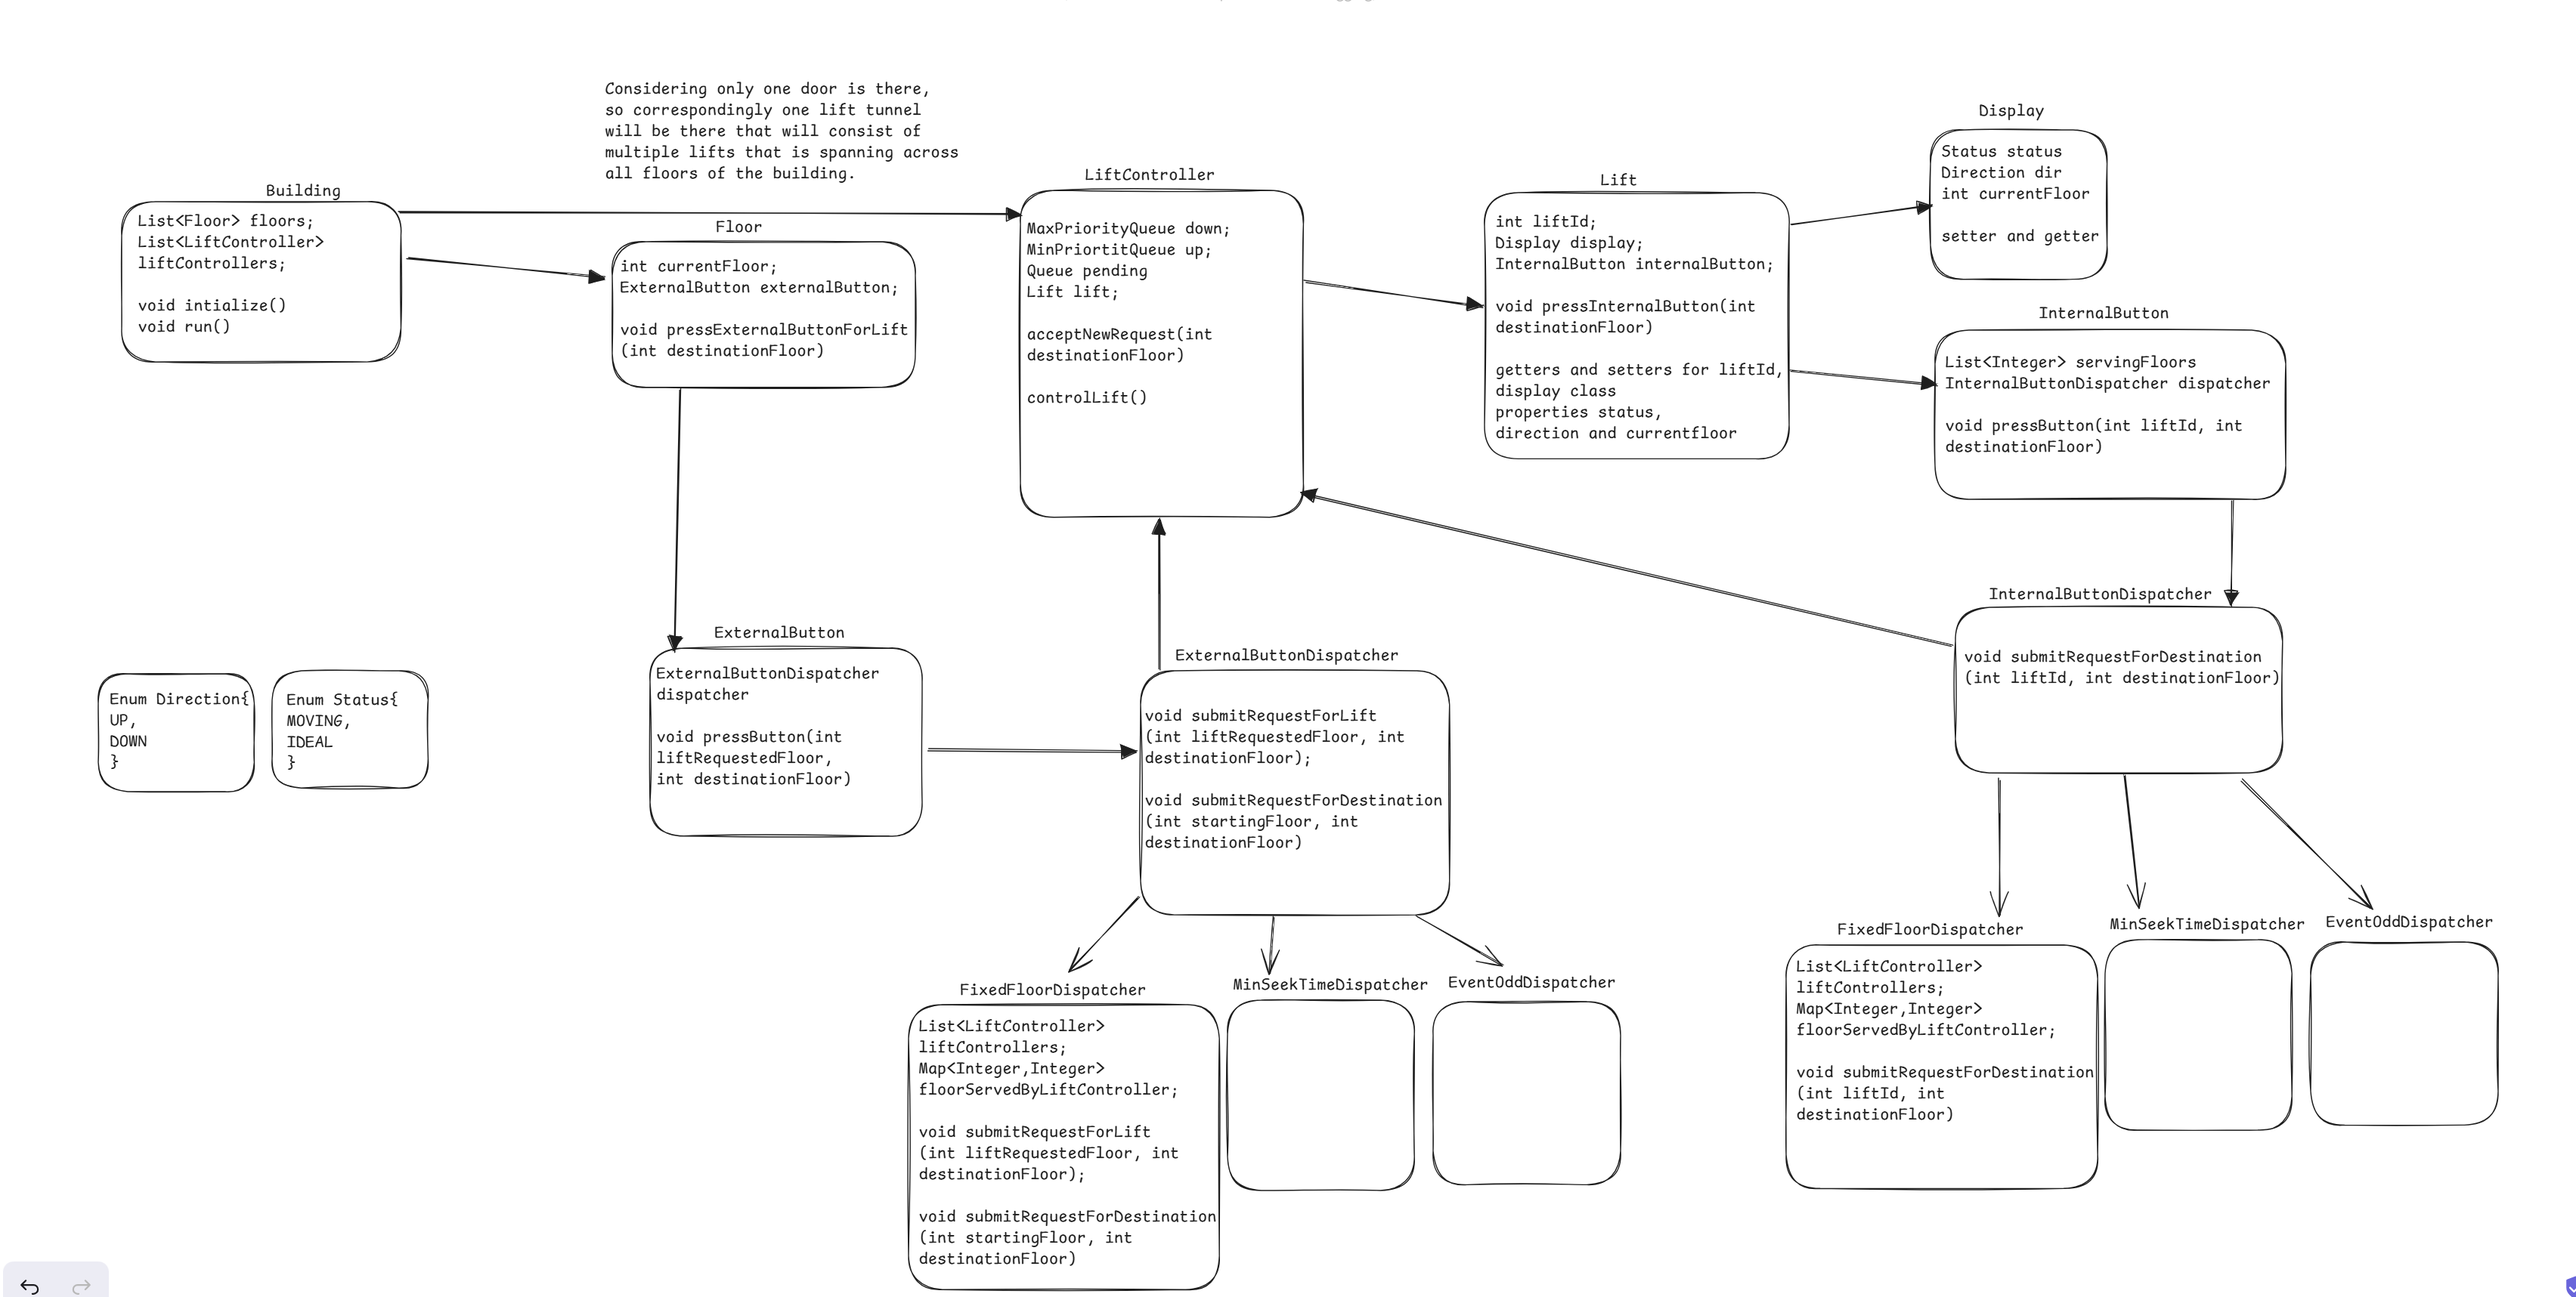
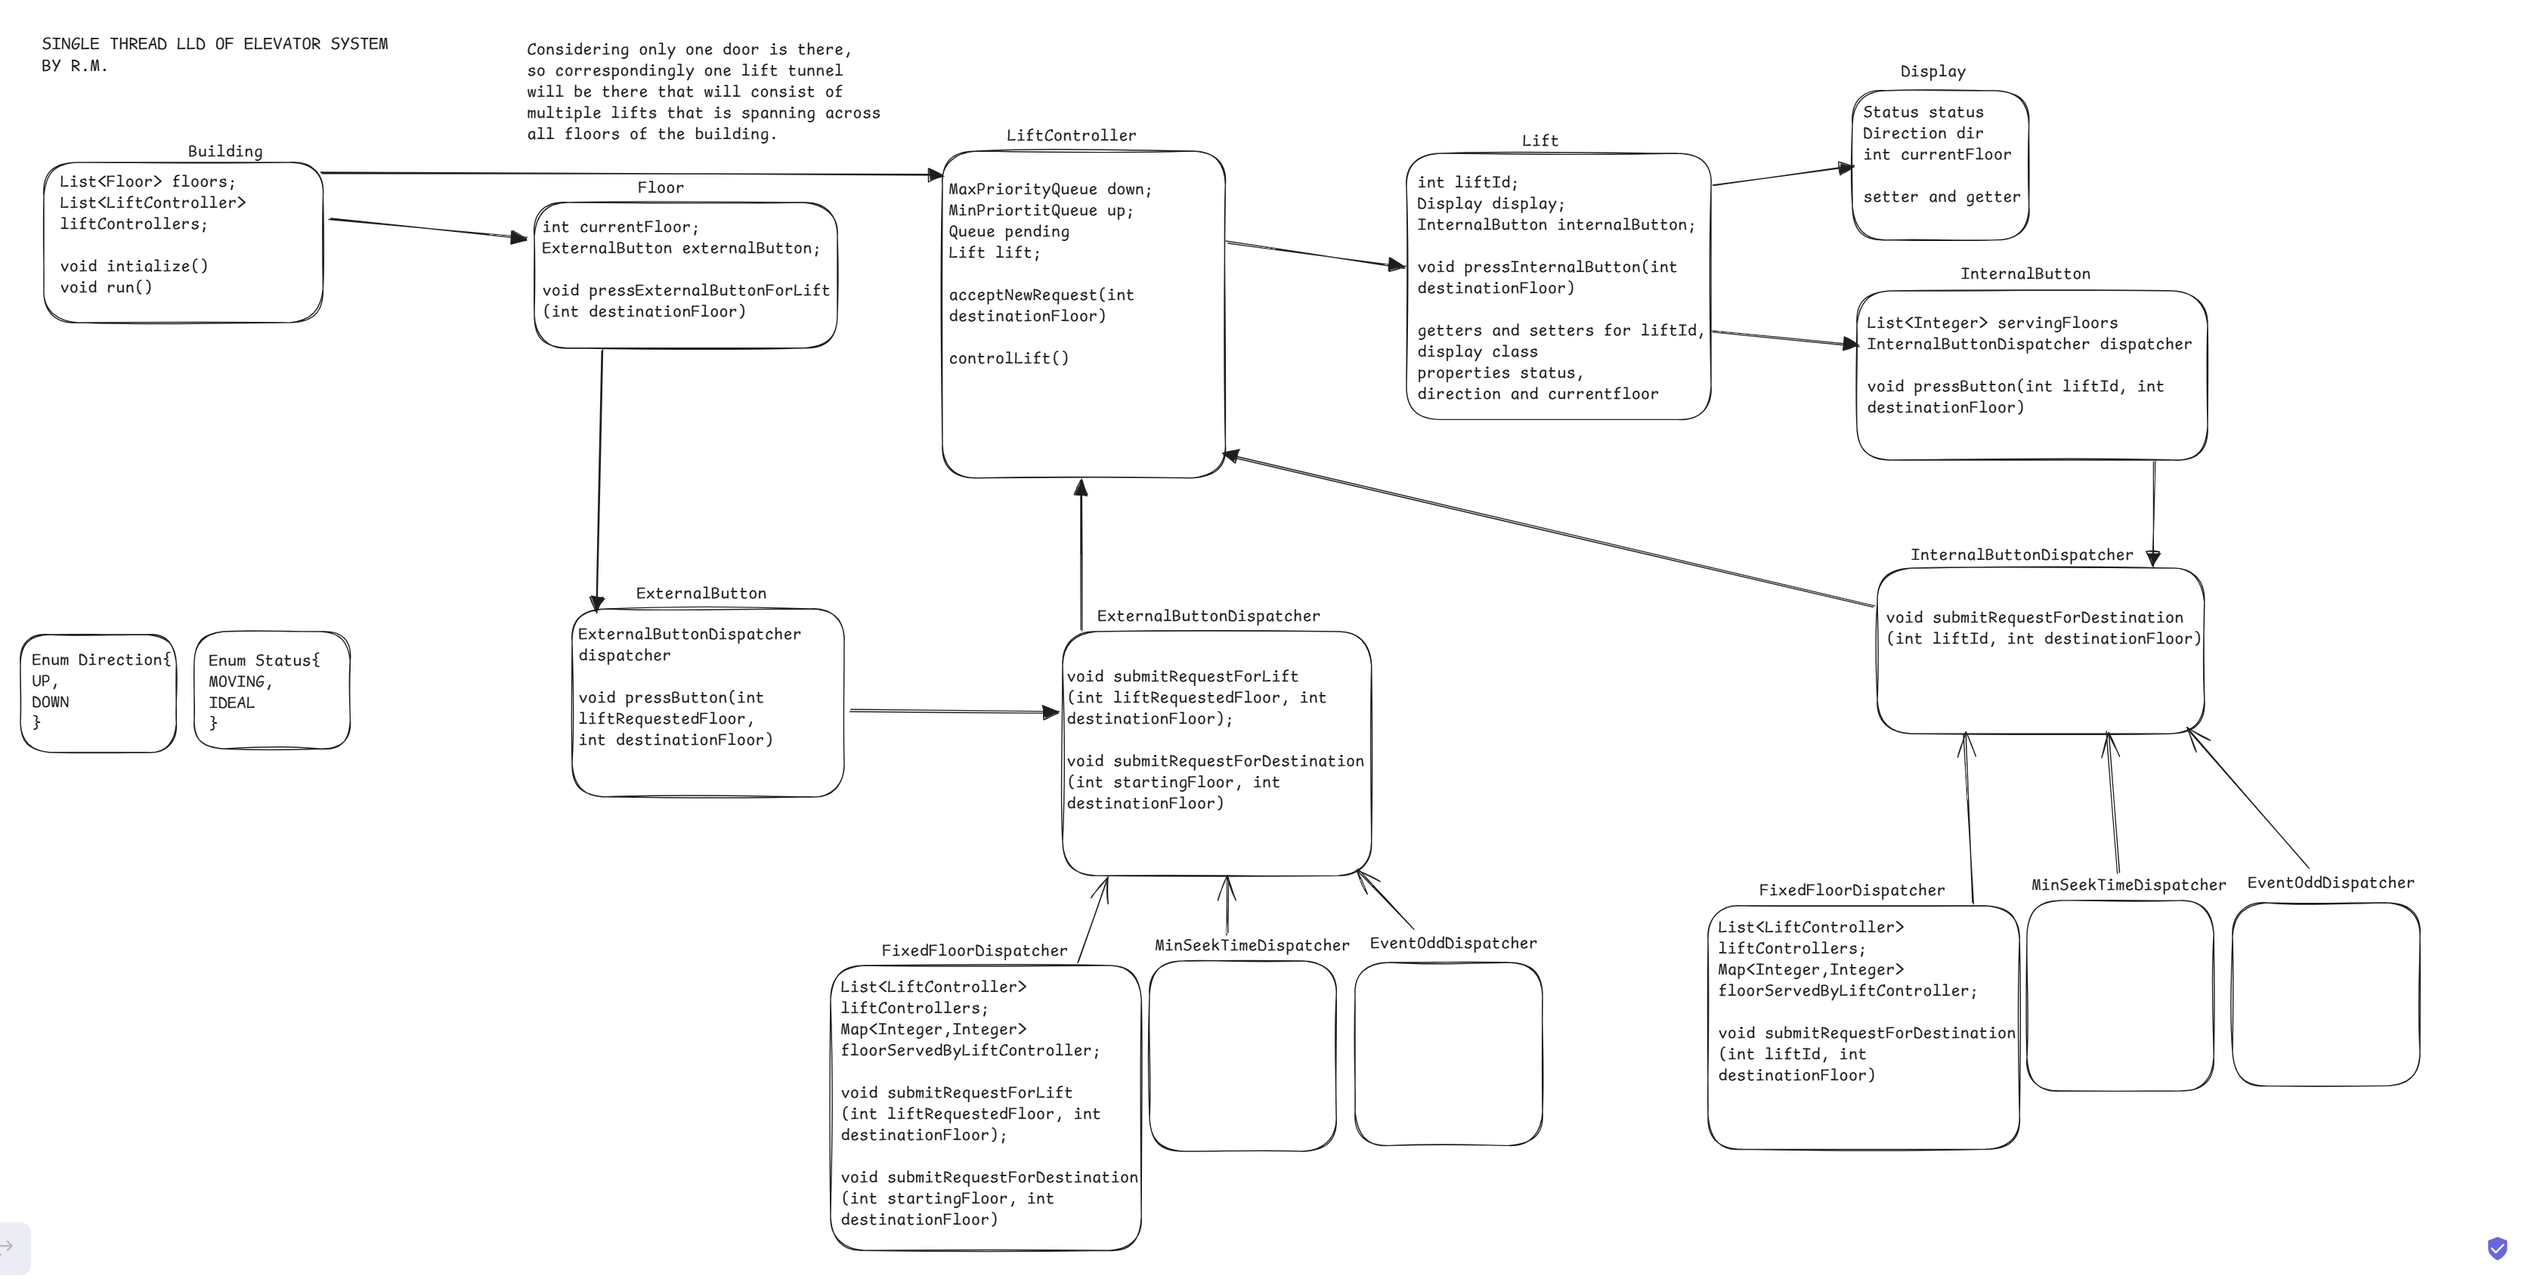
chore: completed single thread lld of elevator system

diff --git a/Elevator-System/Readme.md b/Elevator-System/Readme.md
@@ -1,7 +1,11 @@
 # Low Level Design
 
+### Requirements
 ![Requirements](./images/lld-1.png)
 
+### Single Thread LLD
 ![Single Thread LLD](./images/lld-2.png)
 
-![Multi Thread LLD](./images/lld-3.png)
+### MULTI THREAD LLD
+Pending ... Need to implement
+[//]: # (![Multi Thread LLD]&#40;./images/lld-3.png&#41;)
